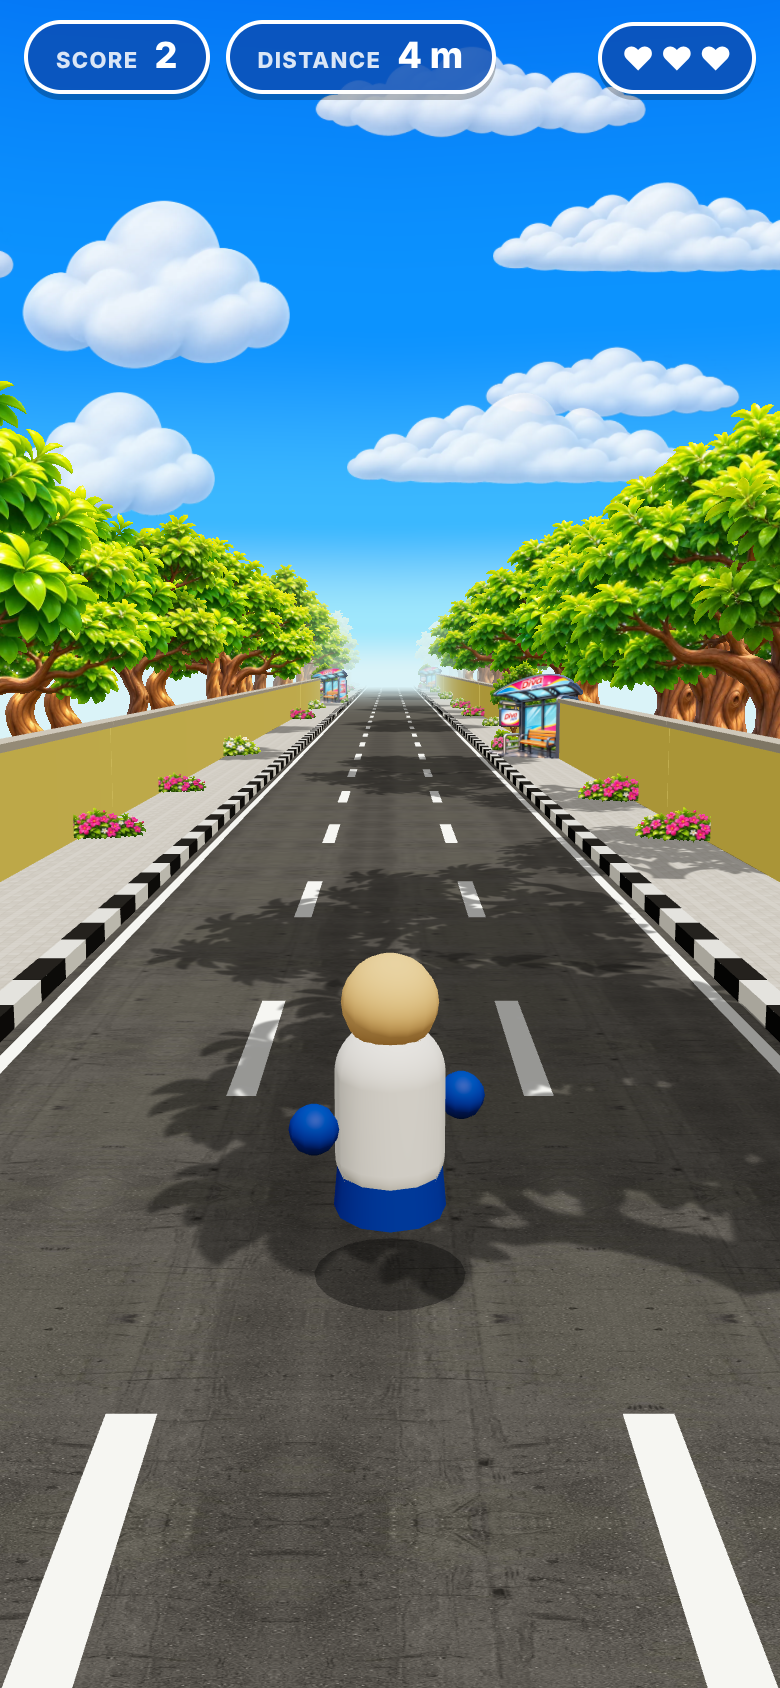
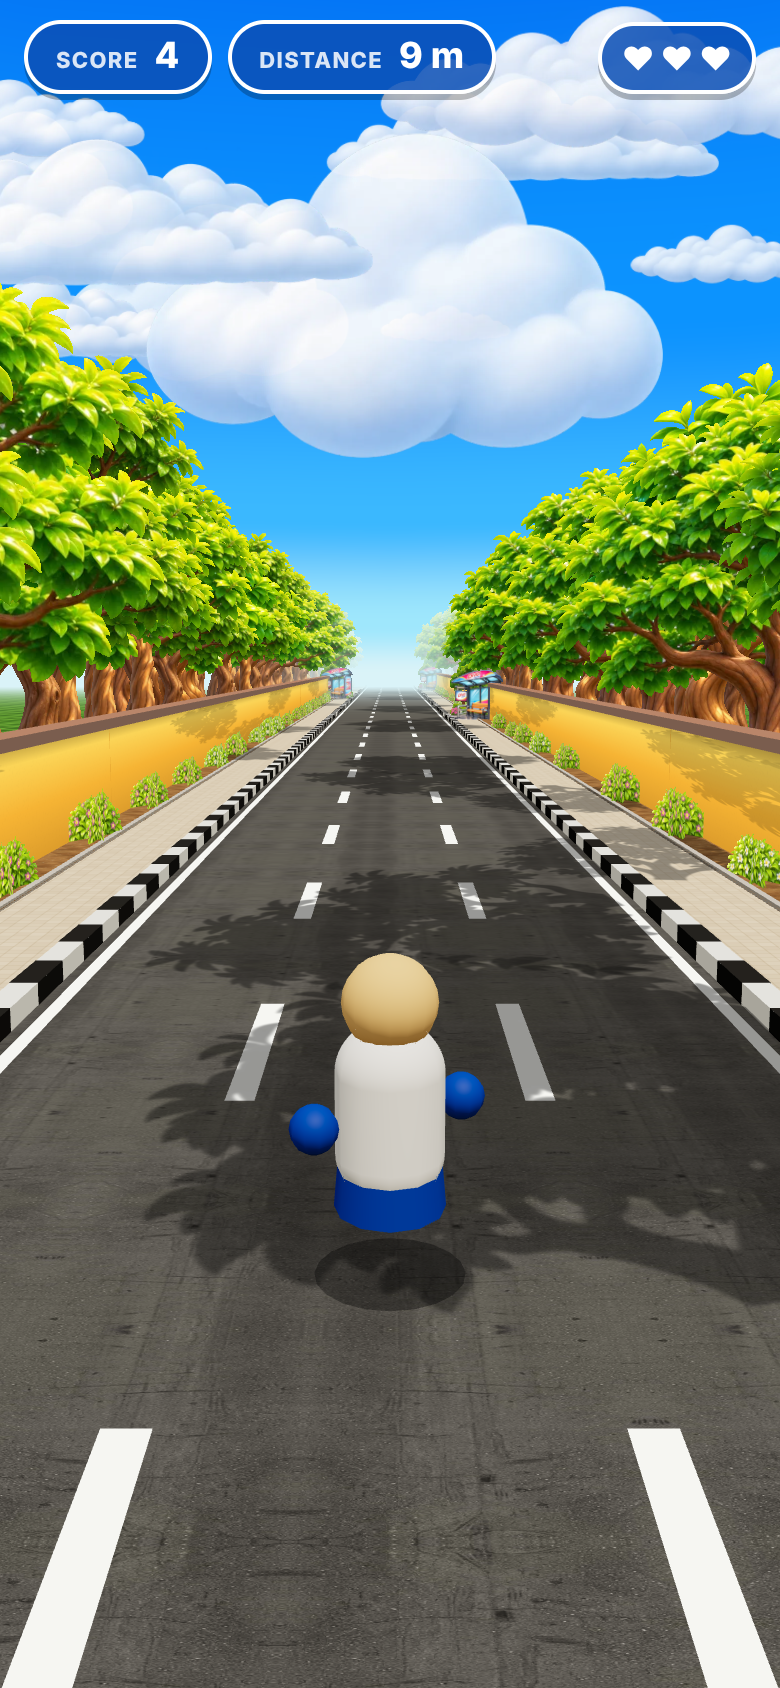
Cover: static poster backdrop, no registration step, 3D paused until START
- cover uses the poster's own road scene (assets/ui/cover-bg.webp); the live
  3D world fades in when START is tapped
- REQUIRE_REGISTRATION flag (off): START plays immediately; register/OTP kept for later
- stage fills the screen height on every size; wide screens get a blurred poster fill
- rendering loop idles while the cover is up (battery)

Claude-Session: https://claude.ai/code/session_015MHPvXtKwbps1DwJmjDf5T

diff --git a/public/js/main.js b/public/js/main.js
@@ -7,7 +7,7 @@ import { Controls } from './controls.js';
 import { Hud } from './hud.js';
 import { Spawner } from './spawner.js';
 import { api } from './api.js';
-import { SPEED, LIVES, SCORE_PICKUP, SCORE_PER_METRE, INVULNERABLE_TIME, COLORS } from './config.js';
+import { SPEED, LIVES, SCORE_PICKUP, SCORE_PER_METRE, INVULNERABLE_TIME, COLORS, REQUIRE_REGISTRATION } from './config.js';
 
 const canvas = document.getElementById('game');
 const hud = new Hud();
@@ -76,8 +76,9 @@ const controls = new Controls(canvas, (action) => {
 // ----------------------------------------------------------------- screens
 function showLobby() {
   state.mode = 'lobby';
-  $('lobby-greeting').textContent = me ? `Hi ${me.name}! Best: ${me.best}` : '';
-  $('btn-signout').classList.toggle('hidden', api.offline || !me);
+  $('lobby-greeting').textContent = REQUIRE_REGISTRATION && me ? `Hi ${me.name}! Best: ${me.best}` : '';
+  $('btn-signout').classList.toggle('hidden', !REQUIRE_REGISTRATION || api.offline || !me);
+  hud.screens.cover.classList.remove('leaving');
   hud.show('cover');
 }
 
@@ -178,11 +179,17 @@ $('btn-resend').addEventListener('click', async () => {
 $('btn-change').addEventListener('click', showRegister);
 $('btn-signout').addEventListener('click', () => { api.signOut(); me = null; showRegister(); });
 // START: signed in → run; otherwise register first, then run straight after the code.
-$('btn-start').addEventListener('click', () => { if (me) startRun(); else showRegister(); });
+$('btn-start').addEventListener('click', () => { if (!REQUIRE_REGISTRATION || me) startRun(); else showRegister(); });
 $('btn-retry').addEventListener('click', startRun);
 
 // ------------------------------------------------------------------- game
 function startRun() {
+  // Fade the poster out over the live 3D world.
+  const cover = hud.screens.cover;
+  if (!cover.classList.contains('hidden')) {
+    cover.classList.add('leaving');
+    setTimeout(() => { cover.classList.remove('leaving'); cover.classList.add('hidden'); }, 320);
+  }
   state.mode = 'running';
   state.speed = SPEED.start;
   state.distance = 0;
@@ -193,7 +200,8 @@ function startRun() {
   player.reset();
   spawner.reset();
   player.group.visible = true;
-  hud.show(null);
+  for (const [k, el] of Object.entries(hud.screens)) if (k !== 'cover') el.classList.add('hidden');
+  hud.hud.classList.remove('hidden');
   hud.update(state);
 }
 
@@ -225,8 +233,8 @@ try {
   hud.layoutCover(assets.cover.meta, assets.cover.images);
   let hero = 'boy'; try { hero = localStorage.getItem(HERO_KEY) || 'boy'; } catch { /* private mode */ }
   setHero(hero, false);
-  hud.setProgress(0.95, 'Signing in…');
-  me = await api.me();
+  hud.setProgress(0.95, REQUIRE_REGISTRATION ? 'Signing in…' : 'Ready');
+  me = REQUIRE_REGISTRATION ? await api.me() : null;
   hud.setProgress(1, 'Ready');
   showLobby();
   window.__gameReady = true;       // hook for automated screenshots
@@ -245,6 +253,7 @@ function frame() {
   requestAnimationFrame(frame);
   const dt = Math.min(clock.getDelta(), 0.05);
   if (!world) return;
+  if (state.mode === 'lobby' || state.mode === 'register' || state.mode === 'otp') return;   // static poster: no 3D work, saves battery
 
   if (state.mode === 'running') {
     state.speed = Math.min(SPEED.max, state.speed + SPEED.ramp * dt);

diff --git a/public/css/game.css b/public/css/game.css
@@ -92,8 +92,13 @@ html, body {
   /* Fill the screen top to bottom like the poster; on tall phones the sides
      crop a little (the poster's own margins), on wide screens it letterboxes. */
   position: relative; flex: none; aspect-ratio: 2048 / 3126;
-  height: min(100%, calc(100vw * 3126 / 2048)); width: auto;
+  height: 100%; width: auto;   /* fills the height; tall phones crop the poster's side margins, wide screens letterbox */
+  background: #6fb6ef center / 100% 100% no-repeat;   /* the poster's own road scene */
 }
+.screen.cover { background: #1b6fe3 center / cover no-repeat; transition: opacity .3s ease; }
+.screen.cover::before { content: ""; position: absolute; inset: -40px; background: inherit; filter: blur(18px) brightness(.75); z-index: 0; }
+.screen.cover > * { position: relative; z-index: 1; }
+.screen.cover.leaving { opacity: 0; pointer-events: none; }
 .layer { position: absolute; display: block; padding: 0; margin: 0; border: 0; background: center / 100% 100% no-repeat; }
 img.layer { width: 100%; height: 100%; object-fit: fill; pointer-events: none; }
 .layer.tap { cursor: pointer; -webkit-tap-highlight-color: transparent; transition: transform .12s; }

diff --git a/public/js/hud.js b/public/js/hud.js
@@ -27,6 +27,8 @@ export class Hud {
 
   /** Position the poster layers from cover.json (fractions of the poster frame). */
   layoutCover(meta, images) {
+    this.$('stage').style.backgroundImage = `url("${images.bg}")`;
+    this.screens.cover.style.backgroundImage = `url("${images.bg}")`;   // blurred fill behind the letterbox
     for (const el of this.screens.cover.querySelectorAll('[data-layer]')) {
       const key = el.dataset.layer; const m = meta[key]; if (!m) continue;
       el.style.left = `${m.x * 100}%`; el.style.top = `${m.y * 100}%`;

diff --git a/public/js/assets.js b/public/js/assets.js
@@ -48,6 +48,7 @@ export async function loadAssets(onProgress = () => {}) {
 
   const coverMeta = await loadJson('assets/ui/cover.json');
   const coverImages = {
+    bg: 'assets/ui/cover-bg.webp',
     glow: 'assets/ui/glow.webp', hcb: 'assets/ui/hcb.webp', logo: 'assets/ui/logo.webp',
     tagline: 'assets/ui/tagline.webp', heroes: 'assets/ui/heroes.webp', ribbon: 'assets/ui/ribbon.webp', start: 'assets/ui/start.webp',
   };

diff --git a/public/js/config.js b/public/js/config.js
@@ -19,6 +19,8 @@ export const LANE_SWITCH_SPEED = 12;  // metres/second sideways (keeps up with t
 export const JUMP = { height: 1.5, duration: 0.55 };
 
 export const LIVES = 3;
+// Phone registration + SMS code before the first run. Off for now: START plays immediately.
+export const REQUIRE_REGISTRATION = false;
 export const SCORE_PICKUP = 10;
 export const SCORE_PER_METRE = 0.5;
 export const INVULNERABLE_TIME = 1.6;
